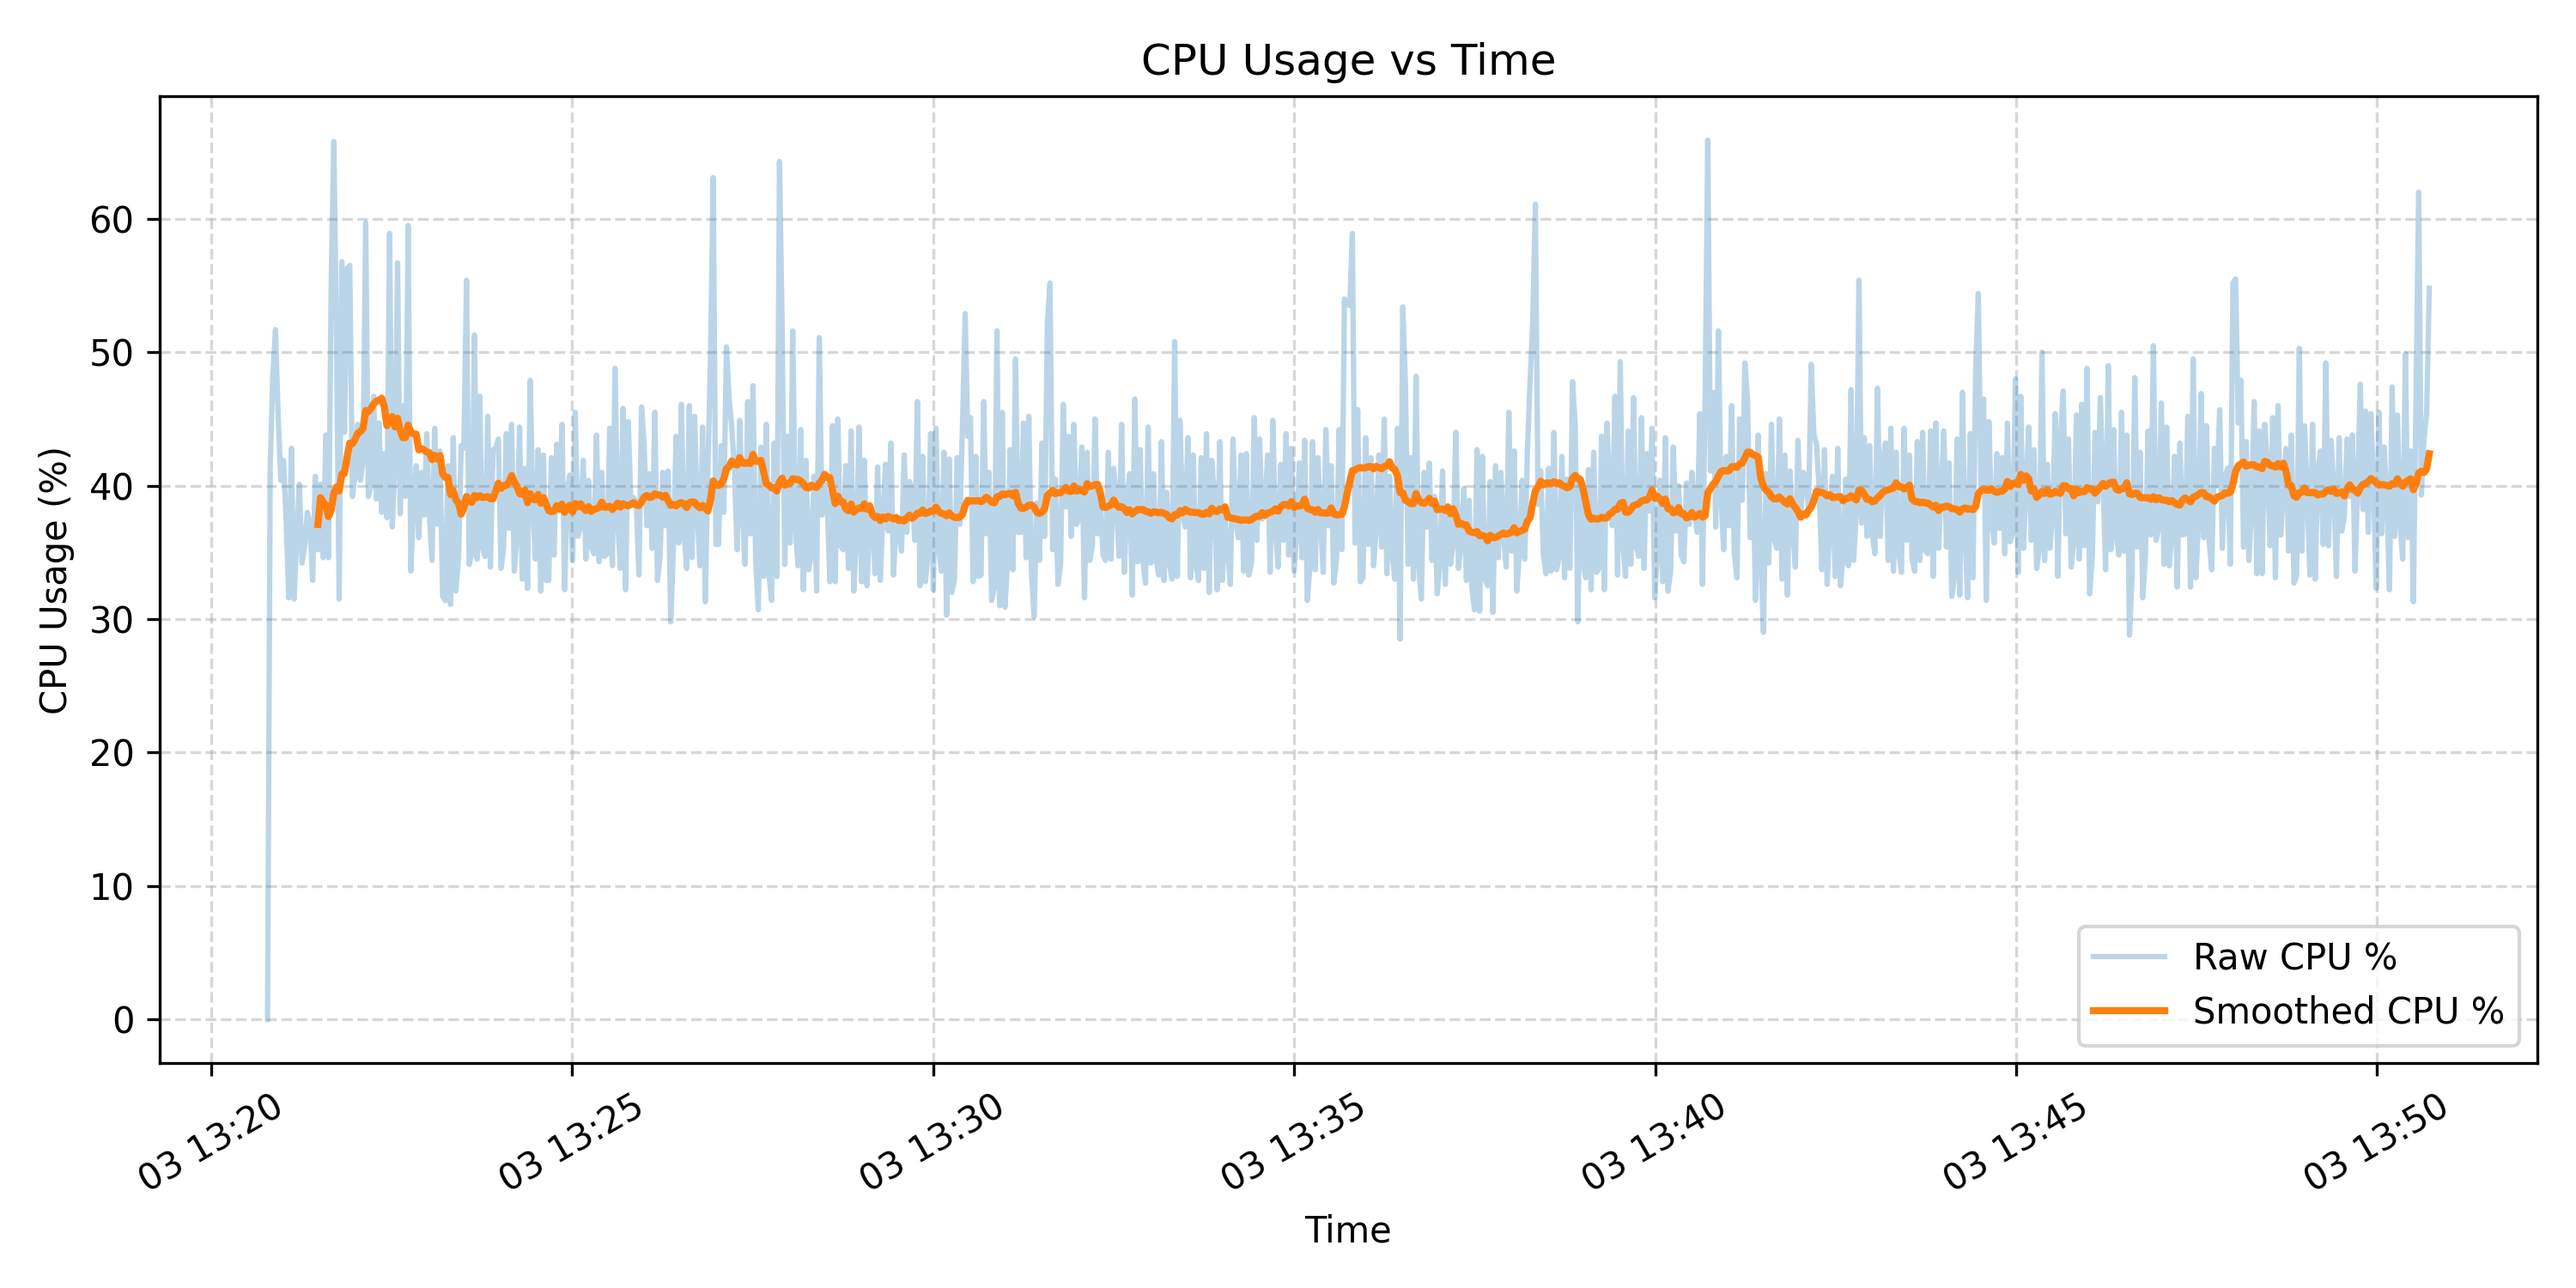
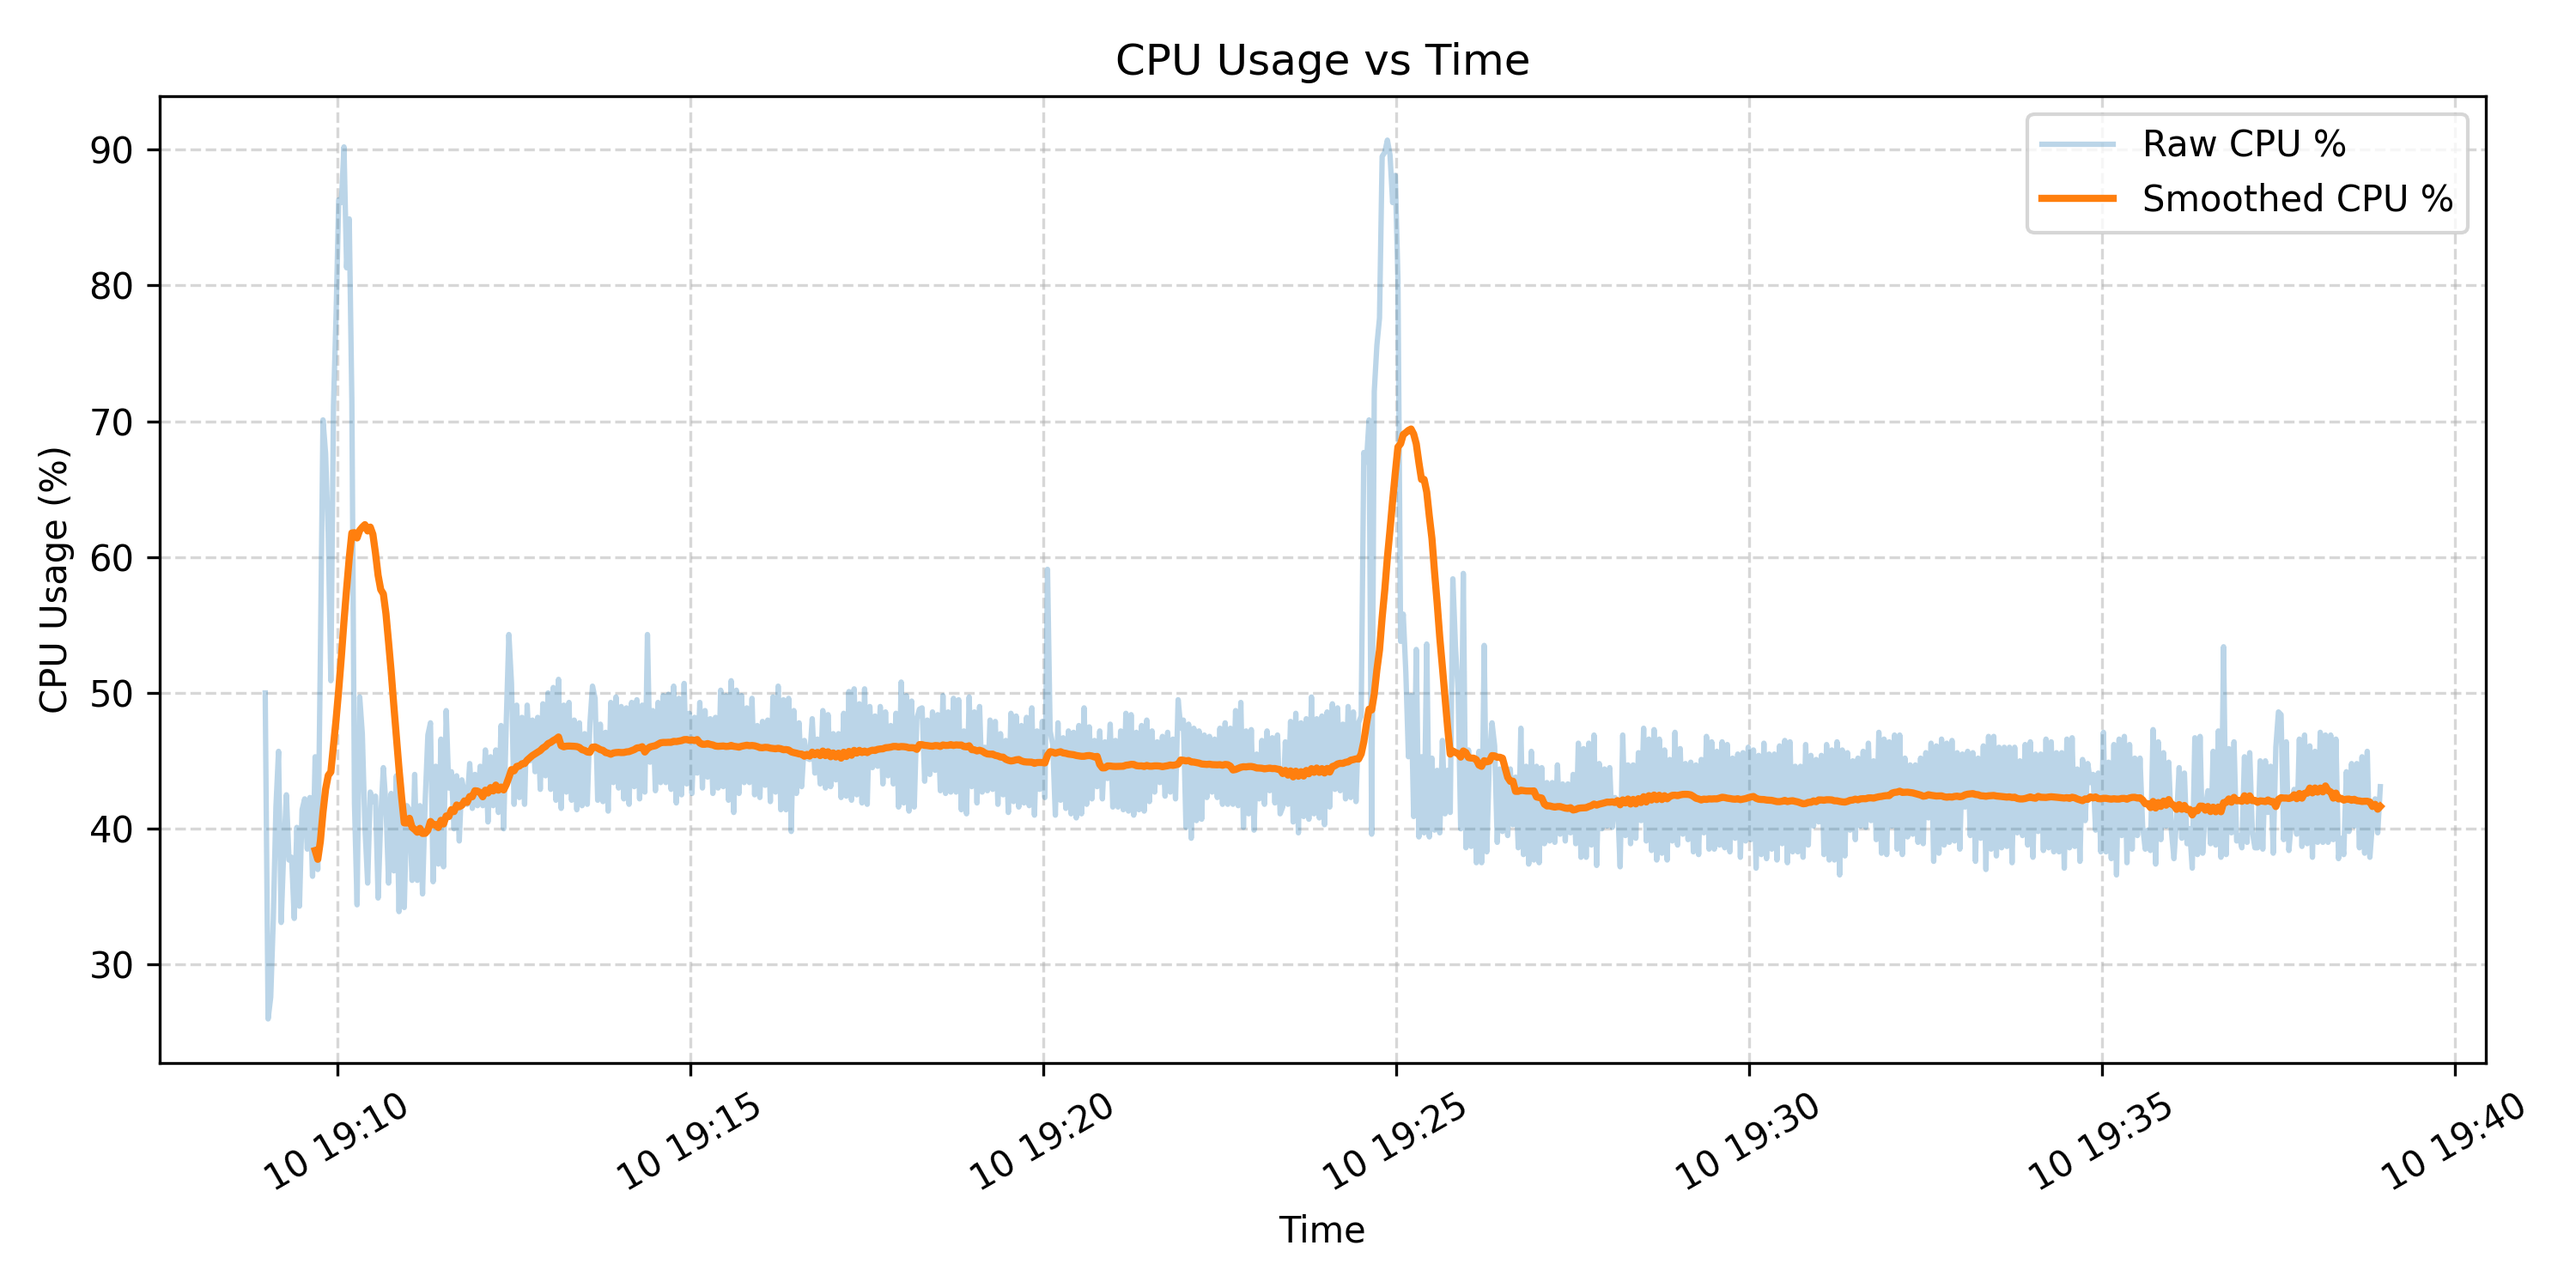
made new plots with extra metrics related to npu like npu_temp and npu_freq

diff --git a/Experiments/raspi_vs_13tops_vs_26tops_yolo11n/graph_plots/codes/voltage_vs_time.py b/Experiments/raspi_vs_13tops_vs_26tops_yolo11n/graph_plots/codes/voltage_vs_time.py
@@ -1,7 +1,7 @@
 import pandas as pd
 import matplotlib.pyplot as plt
 
-csv_file = "/home/sameer/Desktop/optimization_of_ai_models/Experiments/raspi_vs_13tops_vs_26tops_yolo11n/yolo11n_camera_results/yolo11n_system_metrics_cpu_ncnn.csv"
+csv_file = "/home/sameer/Desktop/optimization_of_ai_models/Experiments/raspi_vs_13tops_vs_26tops_yolo11n/fps_and_system_metrics_csv_logs/yolo11n_system_metrics_26tops.csv"
 
 df = pd.read_csv(csv_file)
 
@@ -9,18 +9,18 @@ df = pd.read_csv(csv_file)
 df["timestamp"] = pd.to_datetime(df["timestamp"])
 
 # Smooth voltage signal
-window = 20
-df["voltage_smooth"] = df["cpu_voltage_V"].rolling(window).mean()
+# window = 20
+# df["voltage_smooth"] = df["cpu_voltage_V"].rolling(window).mean()
 
 plt.figure(figsize=(10,5))
 
 # Raw voltage (light)
 plt.plot(df["timestamp"], df["cpu_voltage_V"],
-         alpha=0.3, label="Raw CPU Voltage")
+         alpha=0.6, label="Raw CPU Voltage")
 
 # Smoothed voltage
-plt.plot(df["timestamp"], df["voltage_smooth"],
-         linewidth=2, label="Smoothed CPU Voltage")
+# plt.plot(df["timestamp"], df["voltage_smooth"],
+#          linewidth=2, label="Smoothed CPU Voltage")
 
 plt.xlabel("Time")
 plt.ylabel("CPU Voltage (V)")

diff --git a/Experiments/raspi_vs_13tops_vs_26tops_yolo11n/graph_plots/codes/freq_vs_time.py b/Experiments/raspi_vs_13tops_vs_26tops_yolo11n/graph_plots/codes/freq_vs_time.py
@@ -8,19 +8,23 @@ df = pd.read_csv(csv_file)
 # Convert timestamp
 df["timestamp"] = pd.to_datetime(df["timestamp"])
 
+# Rolling smoothing
+# window = 2
+# df["cpu_freq_smooth"] = df["cpu_freq_MHz"].rolling(window).mean()
+
 plt.figure(figsize=(10,5))
 
 # Raw values (very light)
-plt.plot(df["timestamp"], df["hailo_clock_MHz"],
+plt.plot(df["timestamp"], df["cpu_freq_MHz"],
          alpha=0.2, label="Raw Frequency")
 
 # Smoothed values
-plt.plot(df["timestamp"], df["hailo_clock_MHz"],
-         linewidth=2, label="Smoothed Frequency")
+# plt.plot(df["timestamp"], df["cpu_freq_smooth"],
+#          linewidth=2, label="Smoothed Frequency")
 
 plt.xlabel("Time")
-plt.ylabel("NPU Frequency (GHz)")
-plt.title("Raspberry Pi 5 NPU Frequency vs Time")
+plt.ylabel("CPU Frequency (MHz)")
+plt.title("CPU Frequency vs Time")
 
 plt.grid(True, linestyle="--", alpha=0.5)
 plt.legend()
@@ -28,7 +32,7 @@ plt.legend()
 plt.xticks(rotation=30)
 plt.tight_layout()
 
-plt.savefig("npu_frequency_vs_time.png", dpi=300)
+plt.savefig("cpu_frequency_vs_time.png", dpi=300)
 plt.show()
 
-print("NPU frequency plot saved.")
+print("CPU frequency plot saved.")

diff --git a/Experiments/raspi_vs_13tops_vs_26tops_yolo11n/graph_plots/codes/temp_vs_time.py b/Experiments/raspi_vs_13tops_vs_26tops_yolo11n/graph_plots/codes/temp_vs_time.py
@@ -8,19 +8,19 @@ df["timestamp"] = pd.to_datetime(df["timestamp"])
 
 # Smooth values using rolling average
 window = 20
-df["temperature_smooth"] = df["hailo_temp_C"].rolling(window).mean()
+df["temperature_smooth"] = df["temperature_C"].rolling(window).mean()
 
 plt.figure(figsize=(10,5))
 
 # Raw values (light)
-plt.plot(df["timestamp"], df["hailo_temp_C"], alpha=0.3, label="Raw")
+plt.plot(df["timestamp"], df["temperature_C"], alpha=0.3, label="Raw")
 
 # Smoothed values
 plt.plot(df["timestamp"], df["temperature_smooth"], linewidth=2, label="Smoothed")
 
 plt.xlabel("Time")
 plt.ylabel("Temperature (°C)")
-plt.title("NPU Temperature vs Time")
+plt.title("CPU Temperature vs Time")
 
 plt.grid(True, linestyle="--", alpha=0.5)
 plt.legend()
@@ -28,5 +28,5 @@ plt.legend()
 plt.xticks(rotation=30)
 plt.tight_layout()
 
-plt.savefig("temperature_vs_time.png", dpi=300)
+plt.savefig("cpu_temperature_vs_time.png", dpi=300)
 plt.show()

diff --git a/Experiments/raspi_vs_13tops_vs_26tops_yolo11n/graph_plots/codes/cpu_memory_vs_time.py b/Experiments/raspi_vs_13tops_vs_26tops_yolo11n/graph_plots/codes/cpu_memory_vs_time.py
@@ -1,7 +1,7 @@
 import pandas as pd
 import matplotlib.pyplot as plt
 
-csv_file = "/home/sameer/Desktop/optimization_of_ai_models/Experiments/raspi_vs_13tops_vs_26tops_yolo11n/yolo11n_camera_more_objects_results/yolo11n_system_metrics_cpu_pt.csv"
+csv_file = "/home/sameer/Desktop/optimization_of_ai_models/Experiments/raspi_vs_13tops_vs_26tops_yolo11n/fps_and_system_metrics_csv_logs/yolo11n_system_metrics_26tops.csv"
 
 df = pd.read_csv(csv_file)
 df["timestamp"] = pd.to_datetime(df["timestamp"])

diff --git a/Experiments/raspi_vs_13tops_vs_26tops_yolo11n/graph_plots/codes/throttle_flags_vs_time.py b/Experiments/raspi_vs_13tops_vs_26tops_yolo11n/graph_plots/codes/throttle_flags_vs_time.py
@@ -1,7 +1,7 @@
 import pandas as pd
 import matplotlib.pyplot as plt
 
-csv_file = "/home/sameer/Desktop/optimization_of_ai_models/Experiments/raspi_vs_13tops_vs_26tops_yolo11n/yolo11n_camera_results/yolo11n_system_metrics_cpu_ncnn.csv"
+csv_file = "/home/sameer/Desktop/optimization_of_ai_models/Experiments/raspi_vs_13tops_vs_26tops_yolo11n/fps_and_system_metrics_csv_logs/yolo11n_system_metrics_26tops.csv"
 
 df = pd.read_csv(csv_file)
 
